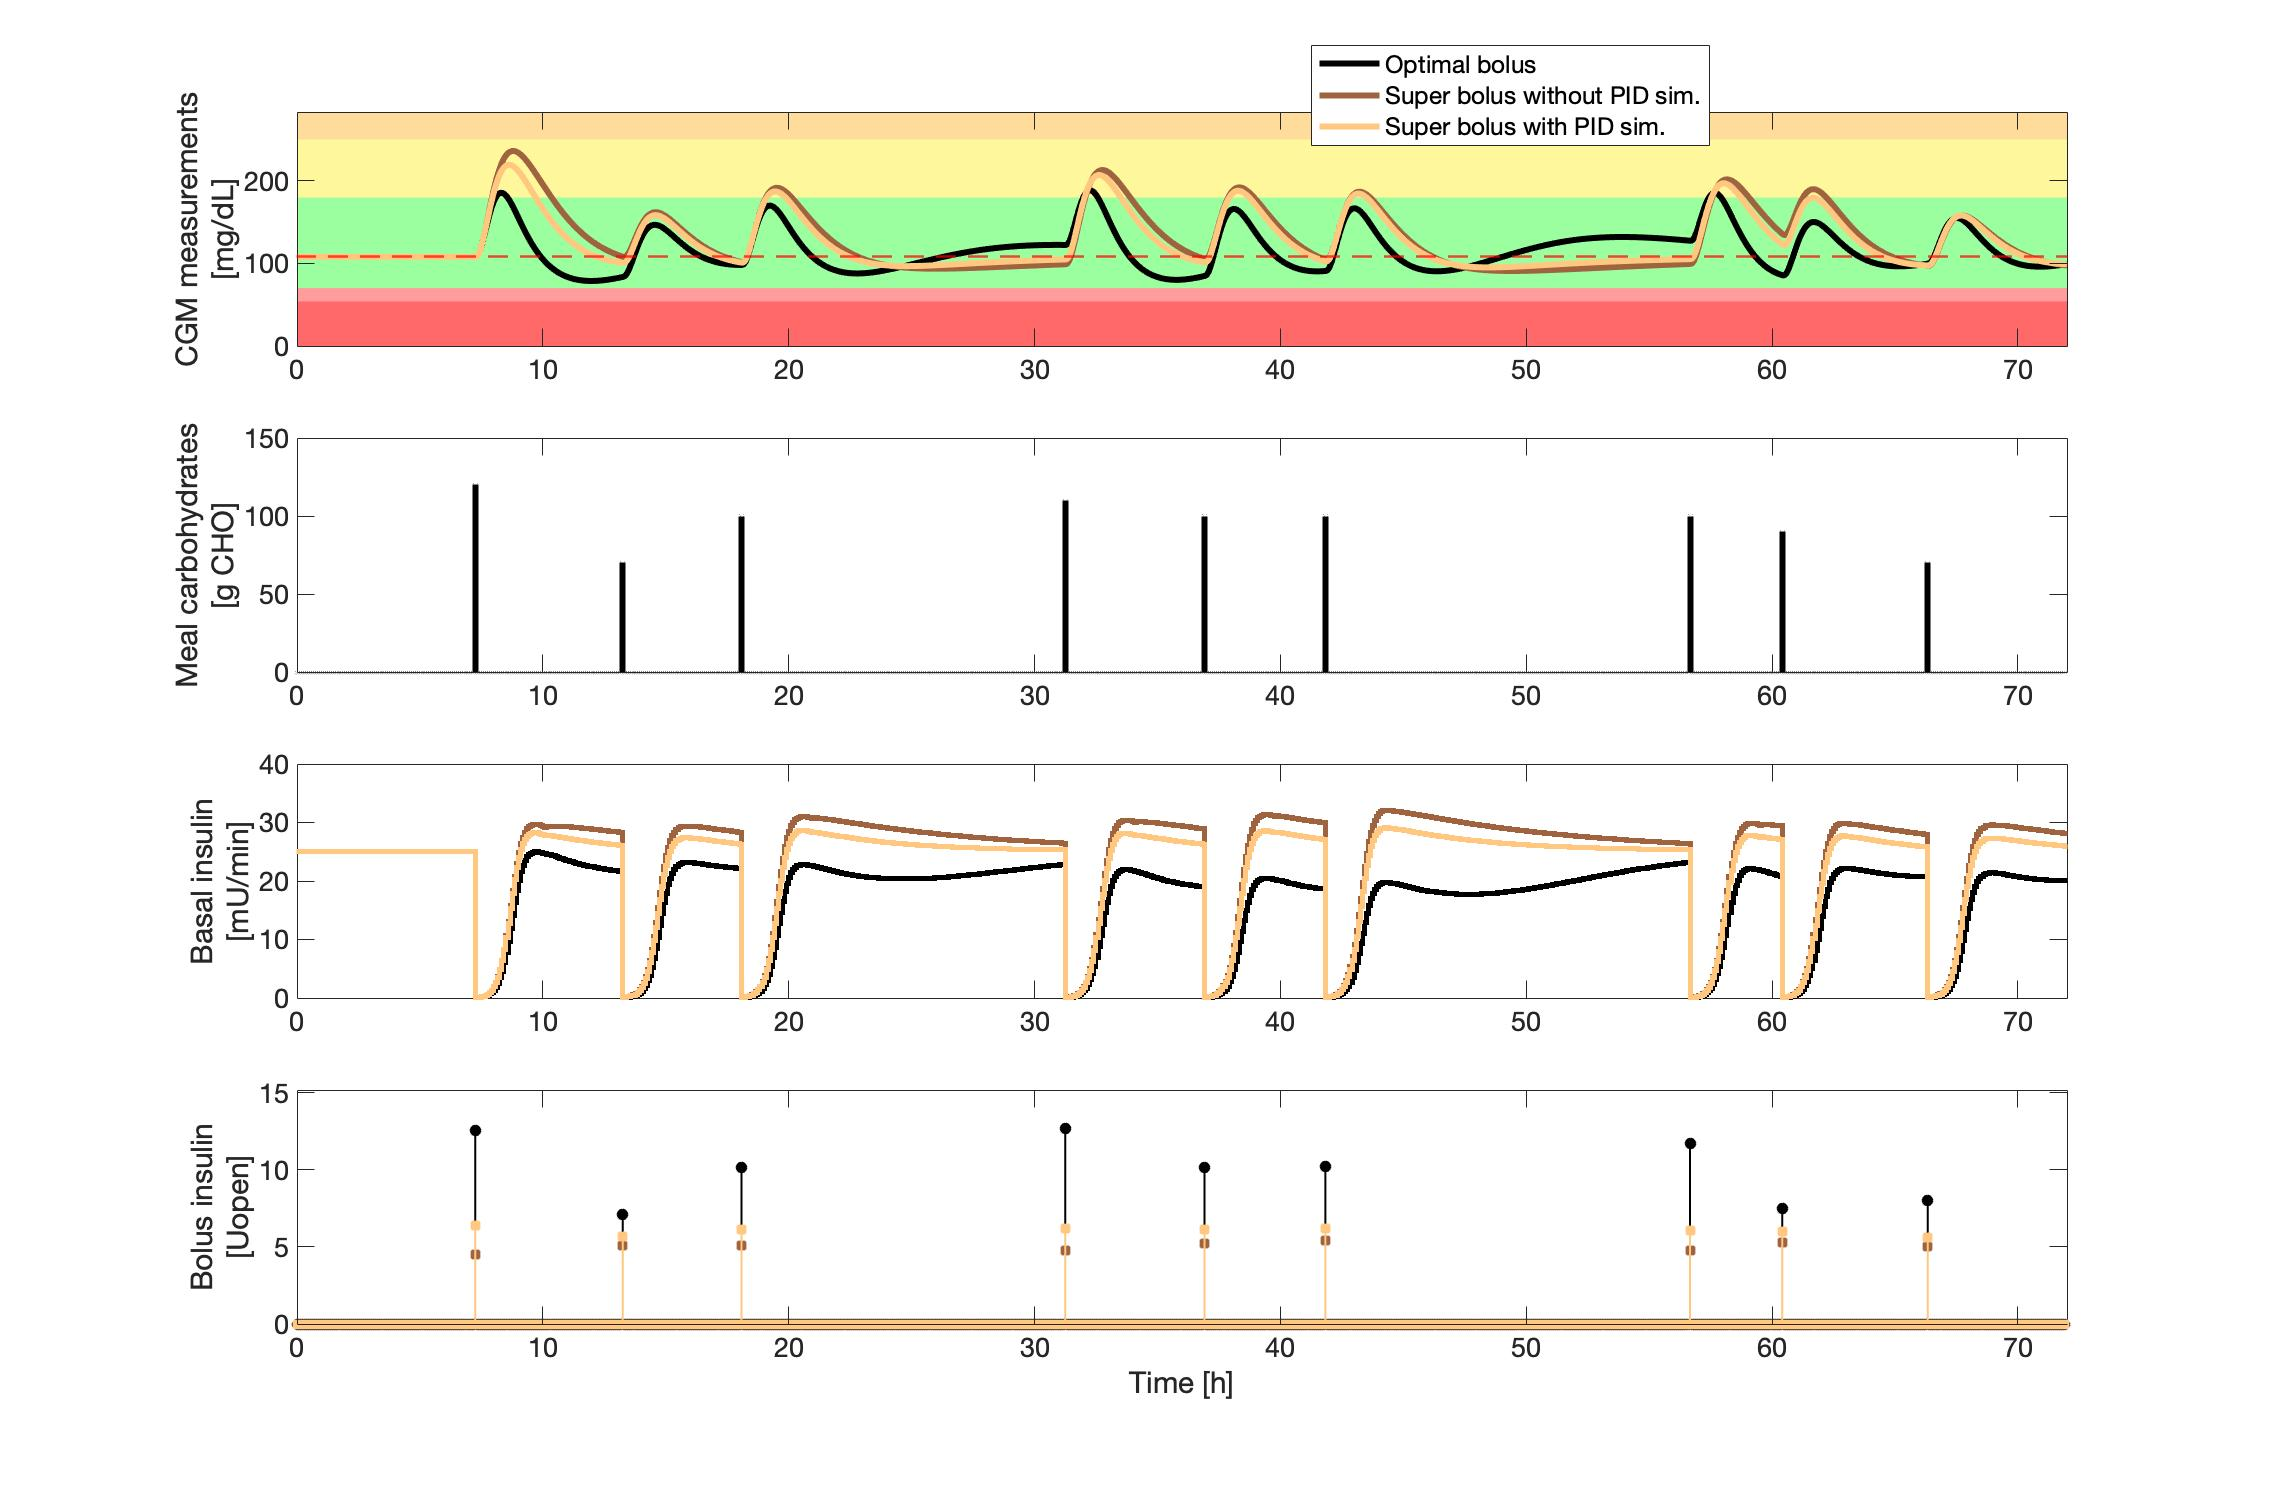
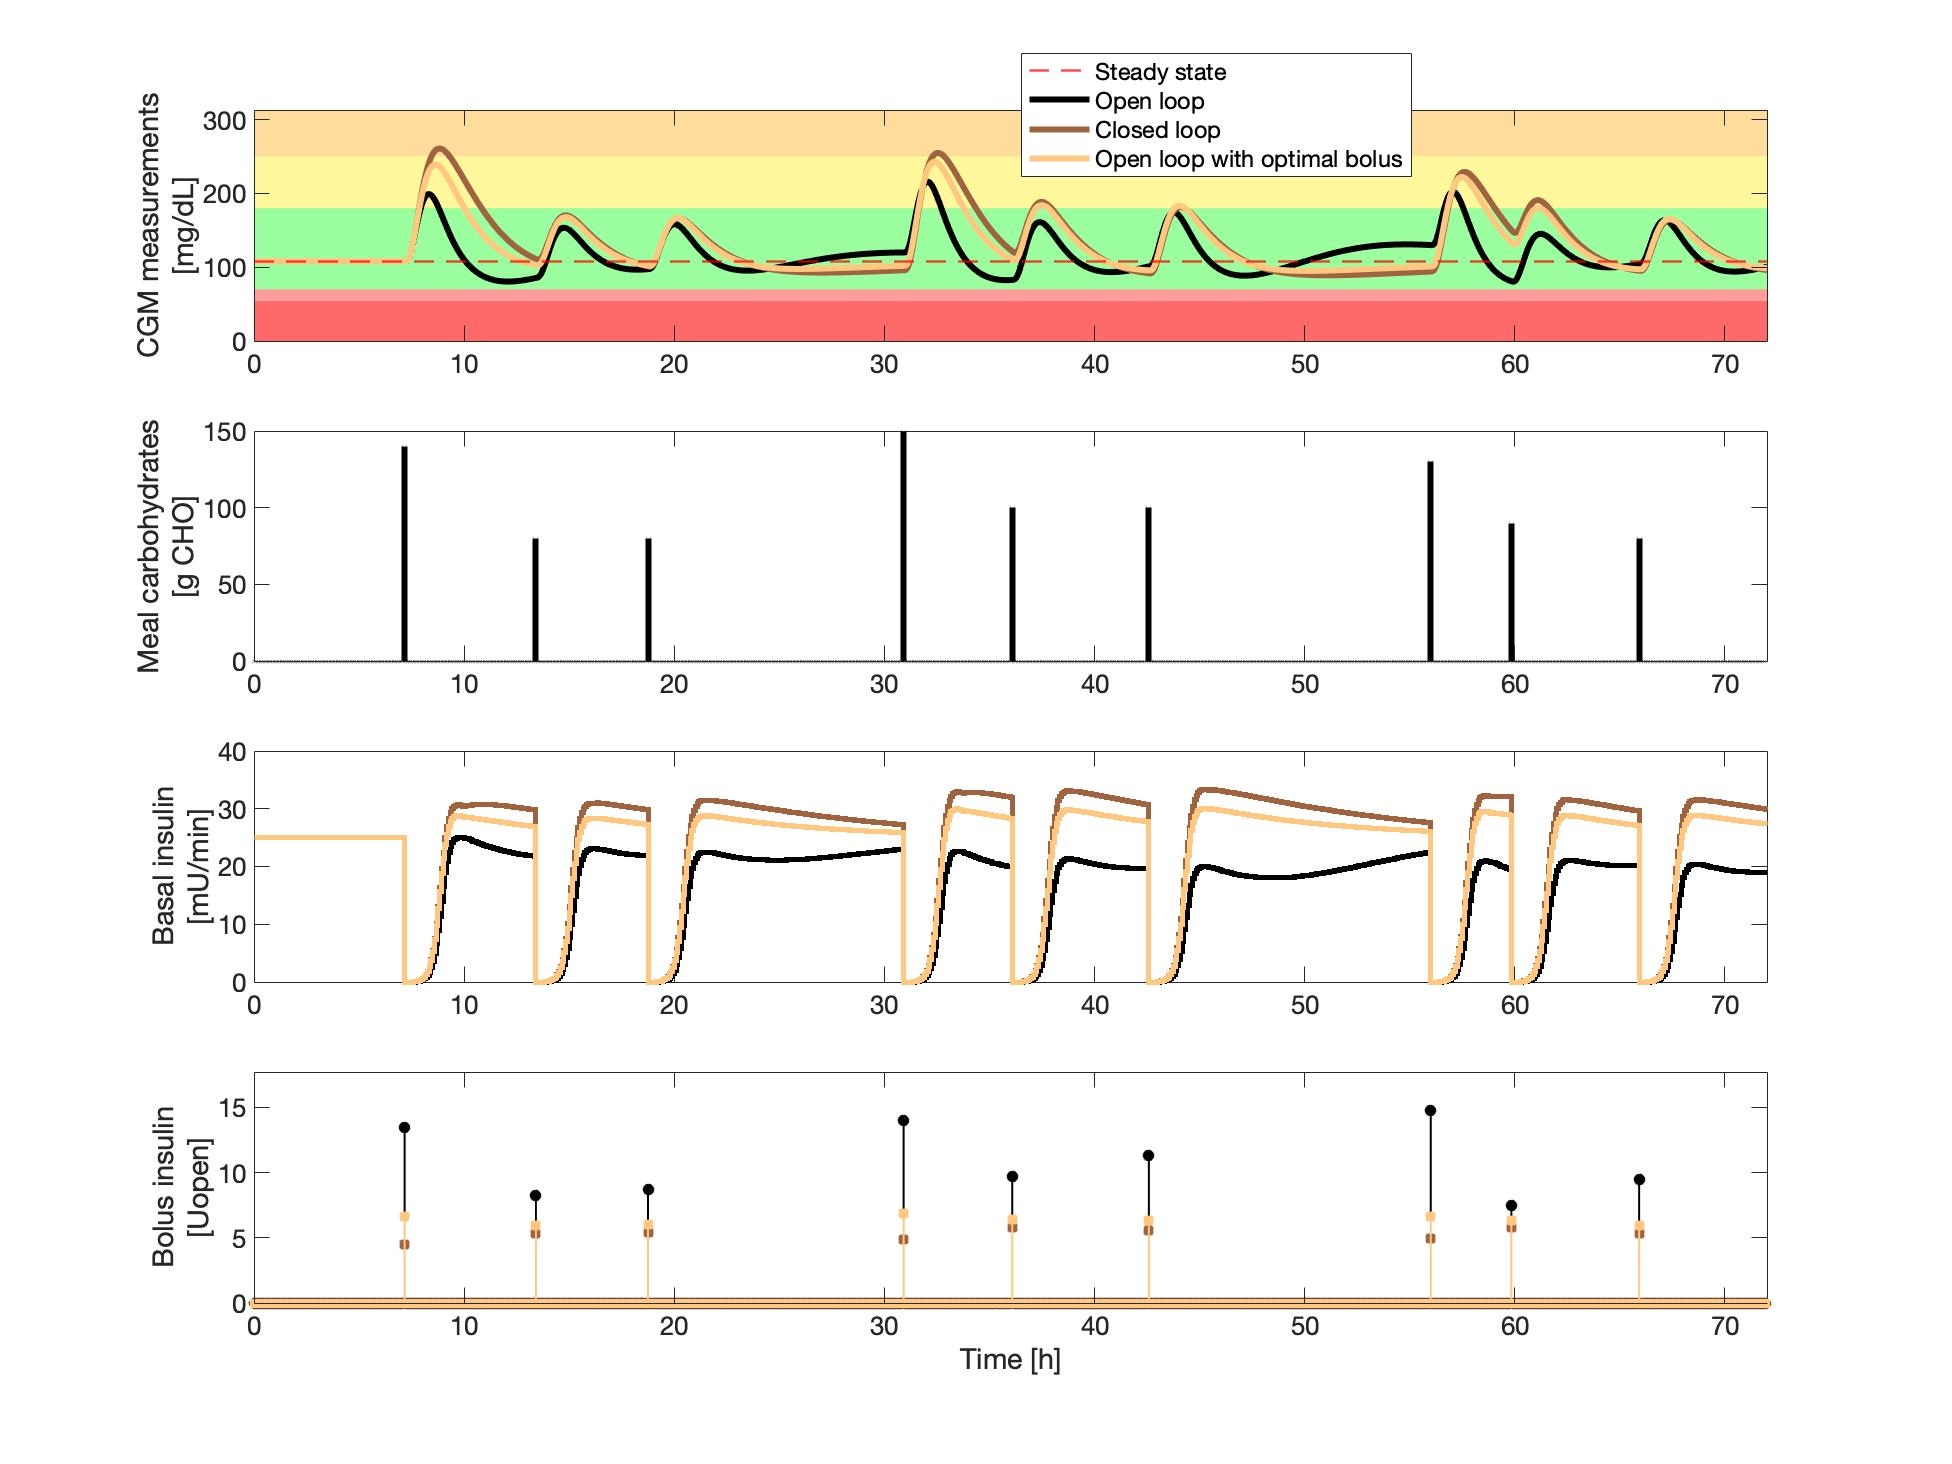
Remaning and other stuff

diff --git a/Matlab/PIDComparison.m b/Matlab/PIDComparison.m
@@ -81,7 +81,7 @@ if(flag ~= 1), error ('fsolve did not converge!'); end
 objectiveFunction = @asymmetricQuadraticPenaltyFunction;
 
 % Initial and final time
-days = 2;
+days = 3;
 hours = days*24;
 t0 =  0;       % min
 tf = hours*h2min; % min
@@ -110,12 +110,6 @@ D = zeros(1, N);
 % Disturbance variables with multiple meals
 Dmealplan = MealPlan(days,false)';
 
-% Meal and meal bolus after 1 hour
-tMeal           = 1*h2min;        % [min]
-idxMeal         = tMeal/Ts + 1;   % [#]
-D(1, idxMeal)   = 90   /Ts;       % [g CHO/min]
-Uopen(2, idxMeal)   = 0;       % [mU/min]
-
 % Select which D to use
 Duse = Dmealplan;
 
@@ -139,18 +133,17 @@ ctrlAlgorithm = @pidControllerSupBolus;
 rampingfunction = @sigmoidRamp;
 
 % Time before titration begins
-tzero = 0;
+tzero = (0.5*h2min)/Ts;
 
-%% Simulation optimal bolus
-
-% Controller parameters and state
 ctrlPar = [
       5.0;    % [min]     Sampling time
       0.05;   %           Proportional gain
       0.0005; %           Integral gain
       0.2500; %           Derivative gain
     108.0;    % [mg/dL]   Target blood glucose concentration
-    us(1)];     % [mU/min]  Nominal basal rate 
+    us(1)];     % [mU/min]  Nominal basal rate (overwritten below)
+
+%% Simulation optimal bolus
 
 [TOptBolus, XOptBolus, YOptBolus, UOptBolus] = closedLoopSimulationOptBolus(x0, tspan, Duse, p, ...
     simModel, observationModel, ctrlAlgorithm, ...
@@ -160,15 +153,6 @@ ctrlPar = [
 GscOptBolus = mvpOutput(XOptBolus); % [mg/dL]
 
 %% Simulation super bolus with PID sim.
-
-% Controller parameters and state
-% ctrlPar = [
-%       5.0;    % [min]     Sampling time
-%       0.43;   %           Proportional gain
-%       1e-05;  %           Integral gain
-%       2;      %           Derivative gain
-%     108.0;    % [mg/dL]   Target blood glucose concentration
-%     us(1)];     % [mU/min]  Nominal basal rate 
 
 % Computing super bolus with PID simulation
 simPID = 1;
@@ -218,16 +202,17 @@ for i = length(Gcrit):-1:1
     area([t0, tf]*min2h,[Gcrit(i),Gcrit(i)],'FaceColor',Gcritcolors{i},'LineStyle','none')
     hold on
 end
+p0 = yline(ctrlPar(5),'LineWidth',1.2,'Color','r','LineStyle','--');
+hold on
 p1 = plot(TOptBolus*min2h, GscOptBolus,'Color',c(1,:));
 hold on
 p2 = plot(TSupBolus*min2h, GscSupBolus,'Color',c(2,:));
 hold on
 p3 = plot(TSupBolusPIDsim*min2h, GscSupBolusPIDsim,'Color',c(3,:));
-yline(ctrlPar(5),'LineWidth',1.2,'Color','r','LineStyle','--');
 xlim([t0, tf]*min2h);
 ylim([0, max([GscOptBolus,GscSupBolus])*1.2]);
 ylabel({'CGM measurements', '[mg/dL]'});
-legend([p1,p2,p3],'Optimal bolus', 'Super bolus without PID sim.', 'Super bolus with PID sim.')
+legend([p0,p1,p2,p3],'Steady state', 'Open loop', 'Closed loop', 'Open loop with optimal bolus')
 
 % Plot meal carbohydrate
 subplot(412);
@@ -262,10 +247,93 @@ xlabel('Time [h]');
 figure
 subplot(1,3,1)
 PlotProcent(ComputeProcent(GscOptBolus, Gcrit));
-title('Optimal bolus')
+title("Optimal bolus" + newline)
 subplot(1,3,2)
 PlotProcent(ComputeProcent(GscSupBolusPIDsim, Gcrit));
-title('Super bolus with PID sim.')
+title("Super bolus with PID sim." + newline)
 subplot(1,3,3)
 PlotProcent(ComputeProcent(GscSupBolus, Gcrit));
-title('Super bolus without PID sim.')
+title("Super bolus without PID sim." + newline)
+
+%% Simulation optimal bolus standard PID
+
+[TOptBolusStan, XOptBolusStan, YOptBolusStan, UOptBolusStan] = closedLoopSimulationOptBolus(x0, tspan, Duse, p, ...
+    simModel, observationModel, @pidController, ...
+    ctrlPar, ctrlState, simMethod, tzero, haltingiter, ...
+    ubo0, idxbo, scalingFactor, objectiveFunction, ...
+    outputModel, rampingfunction, opts);
+
+% Blood glucose concentration
+GscOptBolusStan = mvpOutput(XOptBolusStan); % [mg/dL]
+
+%% Simulation optimal bolus halting PID
+
+[TOptBolus, XOptBolus, YOptBolus, UOptBolus] = closedLoopSimulationOptBolus(x0, tspan, Duse, p, ...
+    simModel, observationModel, @pidControllerOptBolus, ...
+    ctrlPar, ctrlState, simMethod, tzero, haltingiter, ...
+    ubo0, idxbo, scalingFactor, objectiveFunction, ...
+    outputModel, rampingfunction, opts);
+
+% Blood glucose concentration
+GscOptBolus = mvpOutput(XOptBolus); % [mg/dL]
+
+%% Visualization
+
+c = copper(2);
+
+% Setting critical intervals and interval colors
+Gcrit = [3,3.9,10,13.9,2*13.9]*mmolL2mgdL;
+Gcritcolors = getCritColors;
+
+% Create figure with absolute size for reproducibility
+figure
+
+% Plot blood glucose concentration
+subplot(411);
+for i = length(Gcrit):-1:1
+    area([t0, tf]*min2h,[Gcrit(i),Gcrit(i)],'FaceColor',Gcritcolors{i},'LineStyle','none')
+    hold on
+end
+p0 = yline(ctrlPar(5),'LineWidth',1.2,'Color','r','LineStyle','--');
+hold on
+p1 = plot(TOptBolusStan*min2h, GscOptBolusStan,'Color',c(1,:));
+hold on
+p2 = plot(TOptBolus*min2h, GscOptBolus,'Color',c(2,:));
+xlim([t0, tf]*min2h);
+ylim([0, max([GscOptBolusStan,GscOptBolus])*1.2]);
+ylabel({'CGM measurements', '[mg/dL]'});
+legend([p0,p1,p2],'Steady state', 'Optimal bolus with standard PID', 'Optimal bolus with integration halt')
+
+% Plot meal carbohydrate
+subplot(412);
+stem(tspan(1:end-1)*min2h, Ts*Duse(1, :), 'MarkerSize', 0.1,'Color','k');
+xlim([t0, tf]*min2h);
+ylabel({'Meal carbohydrates', '[g CHO]'});
+
+% Plot basal insulin flow rate
+subplot(413);
+stairs(tspan*min2h, UOptBolusStan(1, [1:end, end]),'LineWidth', 2.5,'Color',c(1,:));
+hold on
+stairs(tspan*min2h, UOptBolus(1, [1:end, end]),'LineWidth', 2.5,'Color',c(2,:));
+xlim([t0, tf]*min2h);
+ylabel({'Basal insulin', '[mU/min]'});
+
+% Plot bolus insulin
+subplot(414);
+stem(tspan(1:end-1)*min2h, Ts*mU2U*UOptBolusStan(2, :),'filled','LineStyle','-','LineWidth', 1,'Marker', 'o', 'MarkerSize', 5, 'Color', c(1,:));
+hold on
+stem(tspan(1:end-1)*min2h, Ts*mU2U*UOptBolus(2, :),'filled','LineStyle','-','LineWidth', 1,'Marker', 's', 'MarkerSize', 5, 'Color', c(2,:));
+xlim([t0, tf]*min2h);
+ylim([0, 1.2*Ts*mU2U*max([max(UOptBolusStan(2, :)),max(UOptBolus(2, :))])]);
+ylabel({'Bolus insulin', '[Uopen]'});
+xlabel('Time [h]');
+
+%% Percent visualization
+
+figure
+subplot(1,2,1)
+PlotProcent(ComputeProcent(GscOptBolusStan, Gcrit));
+title("Optimal bolus with standard PID" + newline)
+subplot(1,2,2)
+PlotProcent(ComputeProcent(GscOptBolus, Gcrit));
+title("Optimal bolus with integration halt" + newline)

diff --git a/Matlab/src/optimization/computeOptimalBolus.m b/Matlab/src/optimization/computeOptimalBolus.m
@@ -82,13 +82,9 @@ nonlcon = [];
 
 % Options
 fminconOpts = optimoptions('fmincon', ...
-    'Algorithm', 'sqp',...
-    'Display', 'none',...
-    'MaxFunctionEvaluations', 2000,...
-    'MaxIterations', 2000,...
-    'StepTolerance', 1e-100,...
-    'OptimalityTolerance', e-3,...
-    'TolFun',1e-3);
+    'Display', 'iter',...
+    'OptimalityTolerance', 1e-4,...
+    'StepTolerance', 1e-300);
 
 % 'Algorithm', 'sqp',...
 % 'StepTolerance', 1e-15,...
@@ -98,6 +94,7 @@ fminconOpts = optimoptions('fmincon', ...
 % 'DiffMinChange',1e-10
 % 'MaxFunctionEvaluations', 2000,...
 % 'MaxIterations', 2000,...
+% 'OptimalityTolerance', 1e-5
 
 % Solve the dynamic optimization problem
 [ubo, ~, flag] = fmincon(@singleShootingObjective,  ...

diff --git a/Matlab/src/simulation/closedLoopSimulationOptBolus.m b/Matlab/src/simulation/closedLoopSimulationOptBolus.m
@@ -130,11 +130,9 @@ for k = 1:N
     if dk ~= 0
         tpause = haltingiter;
         
-        disp(k)
+        Ubolus = simulatePID(tk, xk, yk, dk, Nk, p, ctrlPar, ctrlStatek, ctrlAlgorithm, simModel, simMethod, observationModel, N, tzero, haltingiter, rampingfunction);
         
-        % Ubolus = simulatePID(tk, xk, yk, dk, Nk, p, ctrlPar, ctrlStatek, ctrlAlgorithm, simModel, simMethod, observationModel, N, tzero, haltingiter, rampingfunction);
-        
-        Ubolus = repmat([ctrlPar(6);0], 1, length(D));
+        % Ubolus = repmat([ctrlPar(6);0], 1, length(D));
         
         % plot(linspace(1,length(Ubolus),length(Ubolus)),Ubolus)
         

diff --git a/Matlab/src/model/mvpOutput.m b/Matlab/src/model/mvpOutput.m
@@ -1,4 +1,4 @@
-function [G] = mvpOutput(X,b) 
+function [G] = mvpOutput(X, varargin) 
 % MVPOUTPUT Evaluate the output, i.e., the blood glucose concentration for
 % the Medtronic Virtual Patient (MVP) model.
 %
@@ -50,11 +50,12 @@ function [G] = mvpOutput(X,b)
 % Asbjørn Thode Reenberg
 % John Bagterp Jørgensen
 
-if ~exist('b','var')
-     % third parameter does not exist, so default it to something
-      b = 1;
- end
+% if ~exist('b','var')
+%      % third parameter does not exist, so default it to something
+%       b = 1;
+% end
 
+b = 0;
 
 % Glucose subsystem
 G = X(7, :) + b*randn(1,length(X(7, :))); % [mg/dL] Blood glucose concentration

diff --git a/Matlab/InitialComparison.m b/Matlab/InitialComparison.m
@@ -122,12 +122,6 @@ D = zeros(1, N);
 % Disturbance variables with multiple meals
 Dmealplan = MealPlan(days,false)';
 
-% Meal and meal bolus after 1 hour
-tMeal           = 1*h2min;        % [min]
-idxMeal         = tMeal/Ts + 1;   % [#]
-D(1, idxMeal)   = 90   /Ts;       % [g CHO/min]
-Uopen(2, idxMeal)   = 0;       % [mU/min]
-
 % Select which D to use
 Duse = Dmealplan;
 
@@ -138,7 +132,7 @@ scalingFactor = 1e-2;
 idxbo = 2;
 
 % Initial guess of the optimal insulin bolus
-ubo0 = 1e+3; % [mU/min]
+ubo0 = 0; % [mU/min]
 
 %% Simulate open loop with optimal bolus
 

diff --git a/Matlab/src/control/pidControllerOptBolus.m b/Matlab/src/control/pidControllerOptBolus.m
@@ -16,9 +16,9 @@ ykm1 = ctrlState(2); % [mg/dL]   Previous observed glucose concentration
 ek = yk - ybar;
 
 % For negative basal during bolus
-if tpause ~=0
-    ek = -ek*Kbo;
-end 
+% if tpause ~=0
+%     ek = -ek*Kbo;
+% end 
 
 % Derivative
 dek = (yk - ykm1)/Ts;
